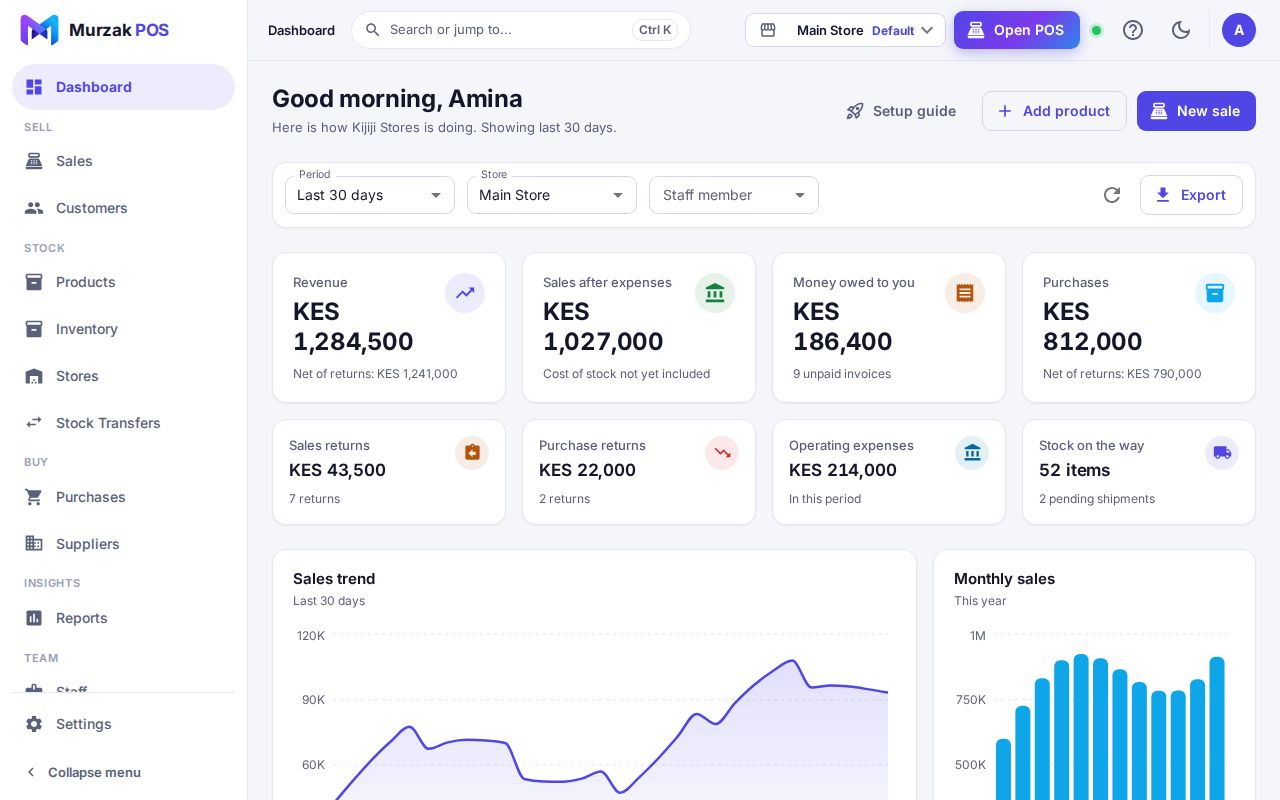
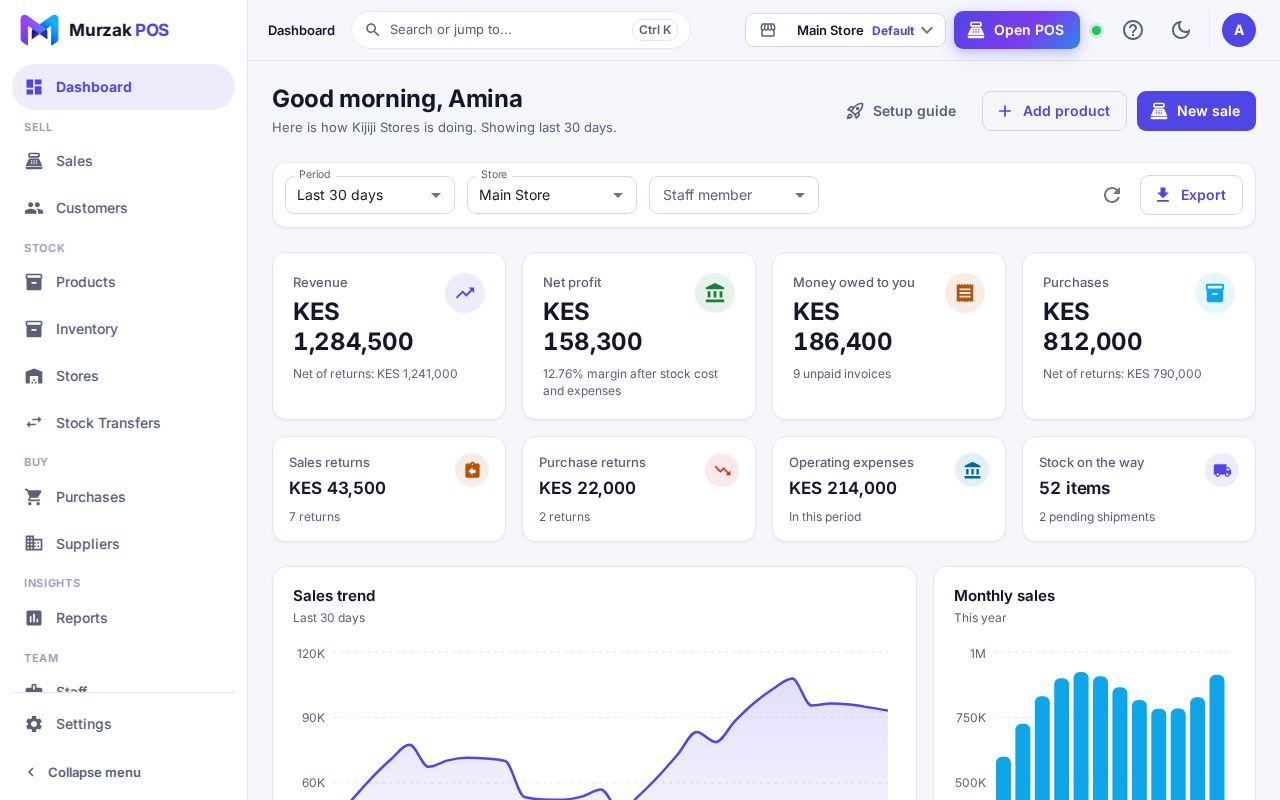
Show real net profit on the dashboard when the server provides it
When the backend returns costOfGoodsSold and netProfit (the backend
change on branch claude/real-dashboard-profit), the dashboard card reads
"Net profit" with the true margin after stock cost and expenses, notes
when some stock costs were estimated, and the CSV export includes cost of
goods, gross profit and net profit. Against an older backend it keeps the
honest "Sales after expenses" card and never shows the placeholder margin.

The landing page dashboard screenshot is retaken with consistent figures.

Claude-Session: https://claude.ai/code/session_01BW9AWtAaPDWvSeHxiCv92s

diff --git a/src/pages/Dashboard/index.js b/src/pages/Dashboard/index.js
@@ -255,10 +255,15 @@ const Dashboard = () => {
   const data = { ...EMPTY_DATA, ...(dashboardData || {}), stats: { ...EMPTY_DATA.stats, ...(dashboardData?.stats || {}) } };
   const { stats } = data;
   const periodLabel = PERIOD_LABELS[filters.period] || '';
-  // Net sales minus expenses recorded in the accounts. It does not subtract what the stock
-  // cost, so it is labelled for what it is rather than as profit. The server's "profitMargin"
-  // is a fixed placeholder (it assumes stock costs 70% of sales), so it is not shown.
+  // Servers with real costing send costOfGoodsSold and netProfit (sales minus what the stock
+  // cost minus expenses). Older servers only had a fixed placeholder margin, so for them the
+  // card shows sales minus expenses and says plainly that stock cost is not included.
+  const hasRealProfit = typeof stats.costOfGoodsSold === 'number' && typeof stats.netProfit === 'number';
   const afterExpenses = (stats.netSales || 0) - (stats.totalExpense || 0);
+  const profitValue = hasRealProfit ? stats.netProfit : afterExpenses;
+  const profitHint = hasRealProfit
+    ? `${stats.profitMargin || 0}% margin after stock cost and expenses${stats.costEstimatedItems > 0 ? ' (some stock costs estimated)' : ''}`
+    : 'Cost of stock not yet included';
   const pendingItems = data.pendingShipments.reduce((acc, s) => acc + (s.items || 0), 0);
   const outstandingTotal = data.salesDue.reduce((acc, d) => acc + (d.amount || 0), 0);
 
@@ -273,7 +278,14 @@ const Dashboard = () => {
       ['Sales Returns', stats.salesReturns],
       ['Purchase Returns', stats.purchaseReturns],
       ['Operating Expenses', stats.totalExpense],
-      ['Sales after expenses (cost of stock not included)', afterExpenses],
+      ...(hasRealProfit
+        ? [
+            ['Cost of Goods Sold', stats.costOfGoodsSold],
+            ['Gross Profit', stats.grossProfit],
+            ['Net Profit', stats.netProfit],
+            ['Net Profit Margin (%)', stats.profitMargin],
+          ]
+        : [['Sales after expenses (cost of stock not included)', afterExpenses]]),
     ];
     const blob = new Blob([rows.map((r) => r.join(',')).join('\n')], { type: 'text/csv;charset=utf-8;' });
     const url = URL.createObjectURL(blob);
@@ -358,11 +370,11 @@ const Dashboard = () => {
       <Box sx={{ display: 'grid', gap: 2, gridTemplateColumns: { xs: '1fr', sm: 'repeat(2, 1fr)', lg: 'repeat(4, 1fr)' }, mb: 2 }}>
         <StatCard label="Revenue" value={money(stats.totalSales)} hint={`Net of returns: ${money(stats.netSales)}`} icon={<TrendingUp />} accent="primary" loading={metricsLoading} />
         <StatCard
-          label="Sales after expenses"
-          value={money(afterExpenses)}
-          hint="Cost of stock not yet included"
+          label={hasRealProfit ? 'Net profit' : 'Sales after expenses'}
+          value={money(profitValue)}
+          hint={profitHint}
           icon={<AccountBalance />}
-          accent={afterExpenses < 0 ? 'error' : 'success'}
+          accent={profitValue < 0 ? 'error' : 'success'}
           loading={metricsLoading}
         />
         <StatCard

diff --git a/UX_REVAMP_PHASE_1.md b/UX_REVAMP_PHASE_1.md
@@ -88,7 +88,7 @@ Selling rules (stock, offers, customer price lists, credit limits, loyalty point
 |---|---|---|
 | MUI v7 no longer supports the old `Grid item xs={..}` syntax; 100 files (863 usages) used it | Layouts across the whole app rendered with auto-sized columns | Import switched to MUI's `GridLegacy` compatibility component in all 100 files |
 | Phone sign-in sent the number in a `phone` field, but the server's `login_user` only accepts `email` and `password` and silently drops anything else | Phone sign-in could never work | The number (as 254XXXXXXXXX) is now sent in the `email` field, which the server passes to Frappe's login; Frappe accepts a mobile number there when "Allow Login using Mobile Number" is on |
-| The dashboard's "Net profit" was sales minus expenses, with no cost of stock, and its "% margin" is a fixed server placeholder (always 30%) | Owners could badly overestimate their profit | Card renamed "Sales after expenses" with the note "Cost of stock not yet included"; the placeholder margin is no longer shown |
+| The dashboard's "Net profit" was sales minus expenses, with no cost of stock, and its "% margin" is a fixed server placeholder (always 30%) | Owners could badly overestimate their profit | The card shows real "Net profit" and margin when the server sends them (backend change prepared, see section 4). Against an older server it reads "Sales after expenses" with the note "Cost of stock not yet included", and the placeholder margin is never shown |
 | A wrong password could show "Your session has expired" | Confusing at sign-in | Wrong credentials and ended sessions are now told apart |
 | "Forgot password?" pointed to a page that does not exist | Dead end (404) | Opens an email to support, pre-written |
 | Terms and Privacy links on sign in were `#` | Dead links | Point to the real pages |
@@ -105,7 +105,7 @@ Selling rules (stock, offers, customer price lists, credit limits, loyalty point
 
 1. **Phone sign-in:** on the server, turn on System Settings > "Allow Login using Mobile Number". Without it, phone sign-in shows "That email, phone number or password is not right". Numbers must be stored on the user as 254XXXXXXXXX, which is how registration saves them.
 2. **Product photos:** uploads use Frappe's standard `/api/method/upload_file` with the same sign-in token, and are saved as public files so the till can show them. Confirm the server's maximum upload size (Frappe's default is 10 MB; the app sends far less). If the business prefers private files, the server will need to serve them to signed-in users.
-3. **Real profit:** the dashboard needs the backend to calculate cost of goods sold (a separate task has been suggested) before a true "Net profit" can be shown.
+3. **Real profit (backend change ready, not yet merged):** a backend branch `claude/real-dashboard-profit` calculates cost of goods sold from the cost ERPNext recorded on each sale (with the current valuation as a flagged fallback), returns `costOfGoodsSold`, `grossProfit`, `grossMargin`, `netProfit` and a real `profitMargin`, and fixes operating expenses, which were always 0 because the query filtered on an account type ERPNext does not use. It could not be pushed from here because the GitHub connection has read-only access to the backend repository. Merging it to the backend's main branch deploys it to the live server, so review it first.
 4. **Typed prices:** the "Enter price" keypad sends the typed price as the line rate, the same field the till already sends. If a product's POS profile does not allow rate changes, the server may refuse the sale; confirm the setting for variable-price products.
 5. **Password reset:** there is no self-service reset. Support by email is a stop-gap. This needs a backend endpoint and a front-end page before launch.
 6. **Marketing claims:** the old pages stated "500+ businesses", "99.9% uptime", "24/7 support", "Bank-level encryption", "Lightning fast", "Start Free Trial", and industry features such as kitchen display and appointment scheduling. I removed or softened these because they cannot be verified from the code (and the dashboard says other industries are "coming soon"). Restore any of them only with evidence you can stand behind.
